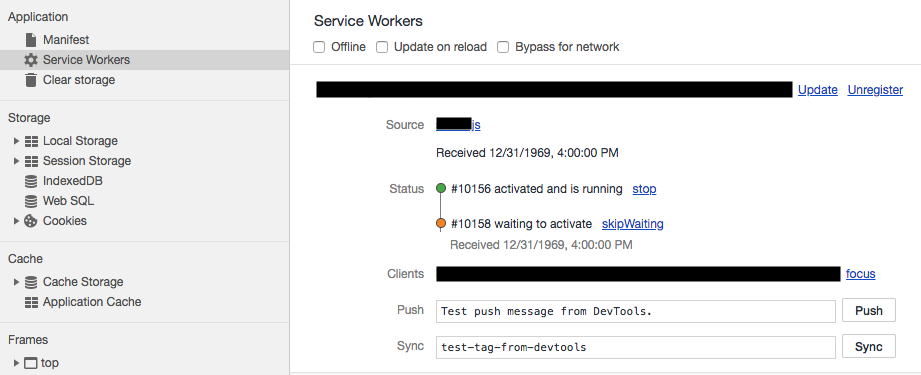
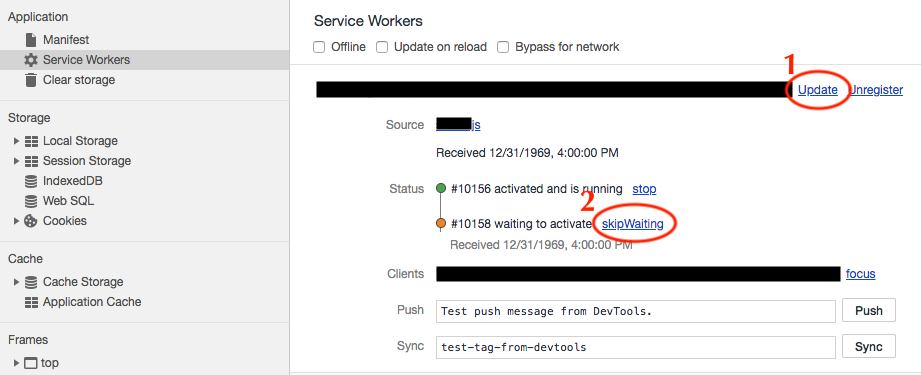
[blog] 2019-03-12-how-to-force-update-a-service-worker-on-chrome-firefox-and-safari

Changed region(s): [[0.6384, 0.4987, 0.7296, 0.6747], [0.8512, 0.1467, 0.9425, 0.2933], [0.7296, 0.5867, 0.76, 0.616]]

diff --git a/_posts/2019-03-12-how-to-force-update-a-service-worker-on-chrome-firefox-and-safari.md b/_posts/2019-03-12-how-to-force-update-a-service-worker-on-chrome-firefox-and-safari.md
@@ -1,0 +1,85 @@
+---
+layout: single
+header:
+  teaser: /assets/images/service-worker-2019-03-12.png
+title: "How to force update a service worker on Chrome, Firefox and Safari?"
+date: 2019-03-12 12:00:00 -0800
+categories: Web
+tags:
+  - Service Worker
+  - PWA
+  - Chrome
+  - Firefox
+  - Safari
+---
+## Overview:
+Learn how to force update or activate your updated service worker when it is in waiting state.
+
+## Chrome
+### 1. Open up Chrome DevTools 
+Open up your website on Google Chrome. On your website, you can open up Google Chrome DevTools by right click and select Inspect from the drop-down menu.
+
+You can also use the following shortcut.
+Keyboard Shortcut:
+
+| Action | Mac | Windows |
+|---|---|:---|
+| Open Console tab | Command + Option + J | Control + Shift + J |
+| Open the last used DevTools tab| Command + Option + I | Control + Shift + I |
+
+### 2. Go to Application Tab
+When Chrome DevTools is open, select `Application` tab. Then, choose `Service Workers` item on Application panel.
+
+### 3. Update and Skip Waiting
+You will see an image like below if a service worker is installed for your website. 
+
+![Chrome Service Worker Skip Waiting](/assets/images/chrome-service-worker-skip-waiting-2019-03-12.png)
+
+1. Then, to the latest version of service worker, you click update. 
+2. After new service worker installs, skipWaiting button will appear. 
+3. You should click skipWaiting button to activate the new service worker.
+
+> skipWaiting() makes the waiting service worker to the active service worker so that update takes effect.
+
+### Note
+If you are testing on your test server, you may not want to do this step every time you publish an update. Instead, to make the service worker to update automatically at page reload, you should check `Update on reload`. Then, page reload will update and activate the new service worker. 
+
+![Chrome Service Worker Update on Reload](/assets/images/chrome-service-worker-update-on-reload-2019-03-12.png)
+
+## Firefox
+### 1. Open up Firefox Service Worker List
+In the url bar, type in `about:serviceworkers` to display a list of service workers.
+
+![Firefox Service Worker List](/assets/images/firefox-service-worker-list-2019-03-12.png)
+
+### 2. Identify your Service Worker
+Look for your service worker by searching for your website url.
+
+### 3. Update Service Worker
+Click Update button to get new updates.
+
+To be certain about using the new service worker, you can unregister your website's service worker and reload your page.
+
+## Safari
+On Safari, as of version 12.1, you need to remove your website's service worker cache in order to force update the service worker. Future Safari version might provide this force update service worker function.
+
+### 1. Open up Privacy Menu
+1. Click Safari button on top left corner.
+2. Open up Safari preferences. 
+3. Select Privacy tab. 
+4. Click Manage Website Data
+
+Please refer to the following image for the above listed steps.
+![Safari Privacy Manage Website Data](/assets/images/safari-open-up-privacy-menu-2019-03-12.png)
+
+### 2. Remove Cache from Website
+1. On Manage Website Data menu, search for your website.
+2. Click Remove to remove your website cache.
+
+![Safari Privacy Manage Website Data](/assets/images/safari-privacy-remove-website-data-2019-03-12.png)
+
+
+With this, you can activate the updated service worker of your progressive web app or website. 
+
+{% include eof.md %}
+
